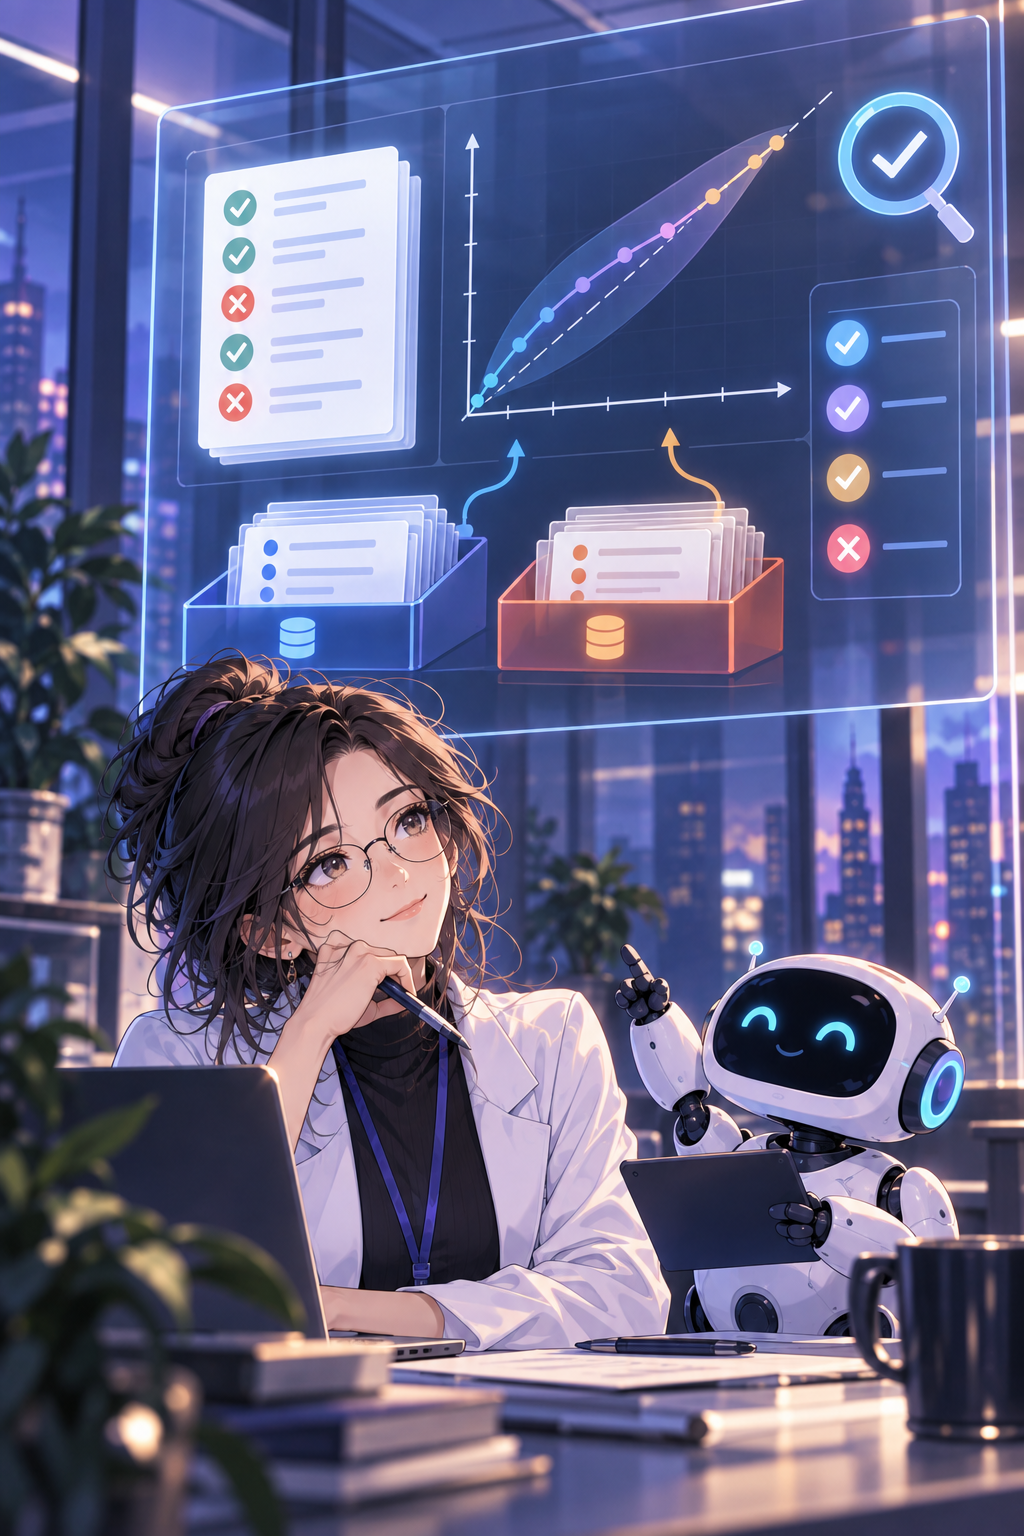
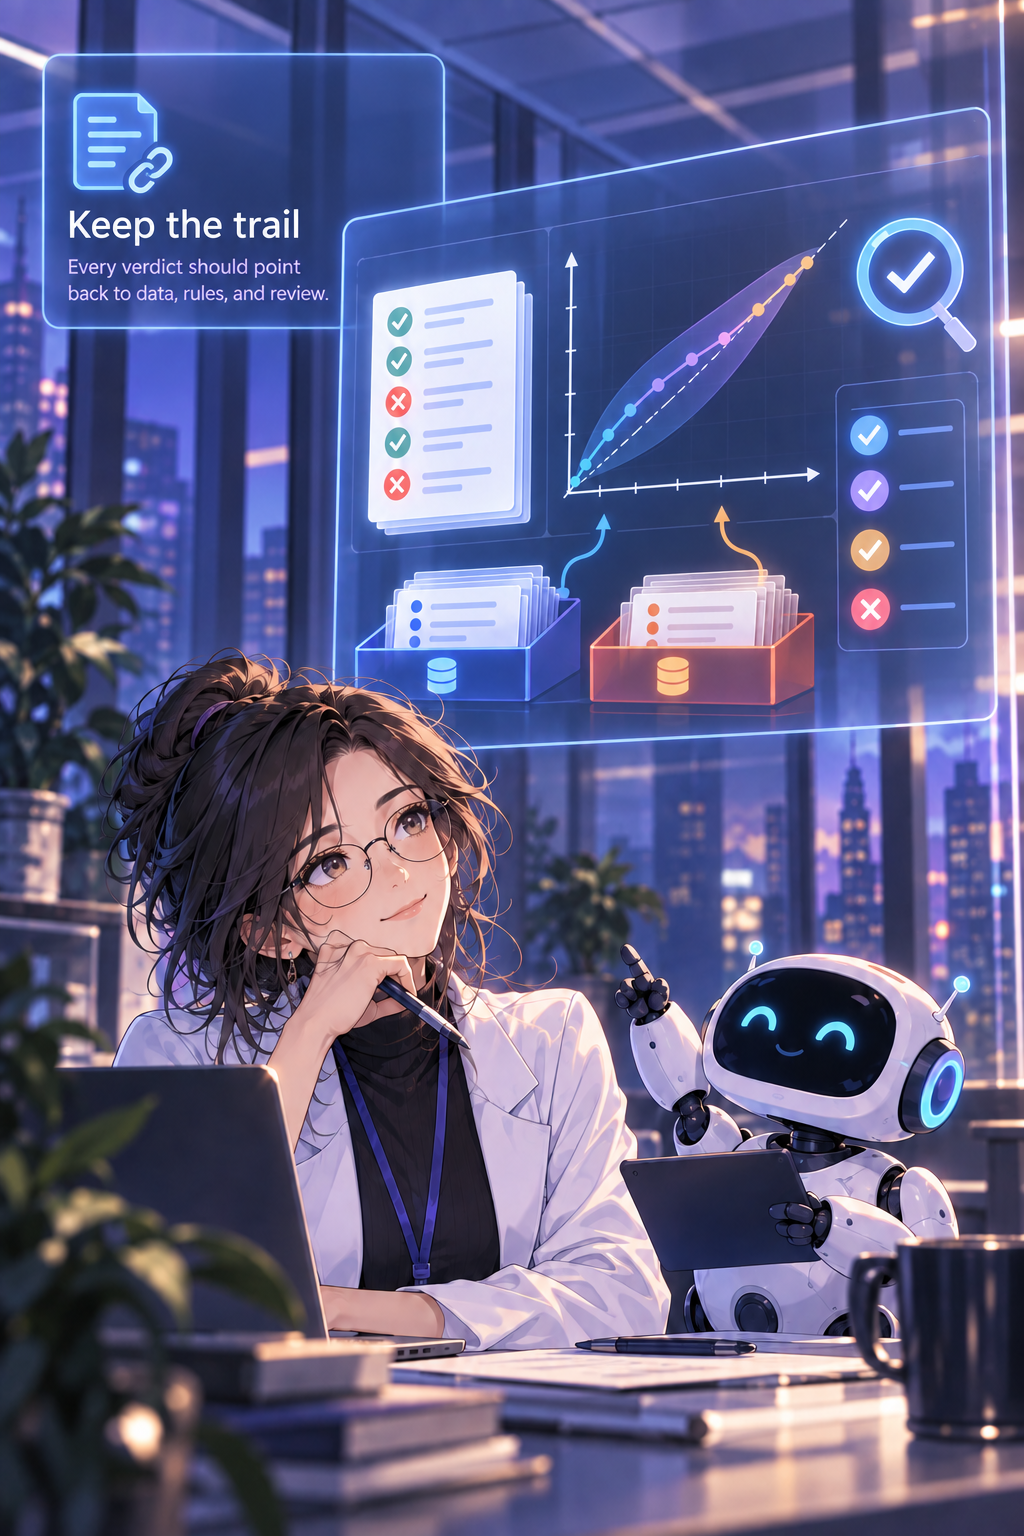
TASK-0014: apply narrative image text contract

diff --git a/docs/content-system-preview.html b/docs/content-system-preview.html
@@ -67,7 +67,7 @@
       <div><h2 id="boundary">The boundary matters</h2><p>Eval Lab does not promote a strong model's opinion to ground truth. A provider failure is recorded as an execution state, not silently scored as a wrong label. <strong>The evidence trail is part of the result.</strong></p></div>
       <figure class="portrait"><img src="../assets/eval-lab-evidence-portrait.png" alt="A researcher reviews evaluation evidence with an AI assistant"></figure>
     </section>
-    <footer>Preview contract: content-generation-modules v0.1.1 · human review remains the final acceptance gate.</footer>
+      <footer>Preview contract: content-generation-modules v0.1.2 · narrative raster assets carry a short title and subtitle · human review remains the final acceptance gate.</footer>
   </main>
 </body>
 </html>

diff --git a/tasks/TASK-0014-content-system-adoption.md b/tasks/TASK-0014-content-system-adoption.md
@@ -1,11 +1,11 @@
 # TASK-0014 — Adopt the reusable content-generation system
 
-<!-- eval-lab:task {"id":"TASK-0014","status":"awaiting_review","goal":"Dogfood the versioned content-generation-modules helper in Eval Lab and produce reviewable README, visual, and responsive HTML artifacts without changing research behavior.","branch":"task/TASK-0014-content-system-adoption","allowed_files":[".gitignore","AGENTS.md","checkpoints/CURRENT.md","tasks/TASK-0014-content-system-adoption.md",".content-system/**","docs/content-system-preview.md","docs/content-system-preview.html"],"helper_repository":"https://github.com/Pukujan/content-generation-modules","helper_version":"0.1.1","helper_commit":"3e89100fed61da19bd3d3f17ad336f189b576c38","next_action":"Open the preview PR and ask the user to review the rendered artifacts before any promotion into README.md."} -->
+<!-- eval-lab:task {"id":"TASK-0014","status":"awaiting_review","goal":"Dogfood the versioned content-generation-modules helper in Eval Lab and produce reviewable README, visual, and responsive HTML artifacts without changing research behavior.","branch":"task/TASK-0014-content-system-adoption","allowed_files":[".gitignore","AGENTS.md","checkpoints/CURRENT.md","tasks/TASK-0014-content-system-adoption.md",".content-system/**","assets/eval-lab-banner.png","assets/eval-lab-problem.png","assets/eval-lab-system-square.png","assets/eval-lab-evidence-portrait.png","docs/content-system-preview.md","docs/content-system-preview.html"],"helper_repository":"https://github.com/Pukujan/content-generation-modules","helper_version":"0.1.2","helper_commit":"cb8c18fa7789e4b651e1f963892bf056b0d3276d","next_action":"Open the preview PR and ask the user to review the rendered artifacts before any promotion into README.md."} -->
 
 - Status: awaiting user review
 - Owner: Codex current implementation session
 - Branch: `task/TASK-0014-content-system-adoption`
-- Helper: `Pukujan/content-generation-modules@v0.1.1` (`3e89100fed61da19bd3d3f17ad336f189b576c38`)
+- Helper: `Pukujan/content-generation-modules@v0.1.2` (`cb8c18fa7789e4b651e1f963892bf056b0d3276d`)
 - Scope: project adapter plus reviewable content/visual/HTML preview only
 
 ## Goal
@@ -19,9 +19,10 @@ Use the reusable content-generation contract in Eval Lab so a fresh agent can pr
 - `tasks/TASK-0014-content-system-adoption.md`;
 - `.content-system/**`;
 - `docs/content-system-preview.md`;
-- `docs/content-system-preview.html`.
+- `docs/content-system-preview.html`;
+- the four named narrative raster assets under `assets/` when the title/subtitle contract requires regeneration.
 
-Do not change research code, experiment artifacts, existing README copy, existing image files, CI, or runtime behavior in this preview task.
+Do not change research code, experiment artifacts, existing README copy, CI, or runtime behavior in this preview task. SVG icons and tiny helper graphics remain unchanged and text-free.
 
 ## Acceptance criteria
 
@@ -35,6 +36,7 @@ Do not change research code, experiment artifacts, existing README copy, existin
 - [x] responsive HTML preview works at wide, tablet, and mobile widths;
 - [x] repository contract, adapter validation, local tests, and preview render checks pass;
 - [x] no target changes are merged without explicit user review.
+- [x] every narrative raster asset carries a short title and subtitle; SVG/helper assets remain text-free.
 
 ## Review evidence to record
 
@@ -137,6 +139,35 @@ Blocked/uncertain:
 Next:
 
 - review the rendered Markdown/HTML/PDF artifacts and decide whether to promote the content system into the canonical README.
+
+### 2026-09-20 — Narrative image text contract update
+
+Completed:
+
+- advanced the adapter pin to `content-generation-modules` v0.1.2 at `cb8c18fa7789e4b651e1f963892bf056b0d3276d`;
+- regenerated the problem, square system, and portrait evidence raster assets with restrained exact title/subtitle copy while preserving the accepted hero and text-free SVG icons;
+- recorded the exact image copy and visual rule in the manifest and visual style contract.
+
+Evidence:
+
+- problem title/subtitle: `Plausible is not proven` / `A confident answer still needs evidence before it becomes a judgment.`;
+- system title/subtitle: `Judge the uncertainty` / `Compare evidence, measure confidence, and route the hard cases.`;
+- evidence title/subtitle: `Keep the trail` / `Every verdict should point back to data, rules, and review.`;
+- generated assets visually inspected for subject visibility, low noise, and readable copy.
+
+Decisions:
+
+- keep one hero only; supporting assets use wide, square, and portrait roles for device coverage;
+- retain SVG icons without embedded words because they are helper visuals rather than narrative illustrations;
+- keep README promotion and merge gated on user review.
+
+Blocked/uncertain:
+
+- none for the adapter or asset update; final human acceptance remains open.
+
+Next:
+
+- rerun adapter, repository, and responsive render validation, push the updated preview branch, and update PR #30 for review.
 
 ## Handoff
 

diff --git a/checkpoints/CURRENT.md b/checkpoints/CURRENT.md
@@ -2,7 +2,7 @@
 
 ## Active content-system preview
 
-TASK-0014 is awaiting user review in [PR #30](https://github.com/Pukujan/Eval-lab/pull/30) on `task/TASK-0014-content-system-adoption`. It pins `Pukujan/content-generation-modules@v0.1.1` at commit `3e89100fed61da19bd3d3f17ad336f189b576c38`. The preview-only adapter and rendered artifacts are complete; the first stale-base CI failure was corrected by merging current `main`, and run `35546113184` passes on Python 3.11 and 3.12. The next atomic action is user review before changing the canonical README.
+TASK-0014 is awaiting user review in [PR #30](https://github.com/Pukujan/Eval-lab/pull/30) on `task/TASK-0014-content-system-adoption`. It pins `Pukujan/content-generation-modules@v0.1.2` at commit `cb8c18fa7789e4b651e1f963892bf056b0d3276d`. The preview-only adapter and rendered artifacts are complete; the first stale-base CI failure was corrected by merging current `main`, and run `35546113184` passes on Python 3.11 and 3.12. The narrative raster assets now all carry a short title and subtitle, while SVG helper icons stay text-free. The next atomic action is user review before changing the canonical README.
 
 ## Program state
 

diff --git a/docs/content-system-preview.md b/docs/content-system-preview.md
@@ -42,4 +42,4 @@ The lab does not promote a strong model's opinion to ground truth. A provider fa
 
 ## Contract used
 
-This preview pins `content-generation-modules@v0.1.1` and its six modules: brand foundation, content context, writing direction, visual direction, image generation, and HTML demo.
+This preview pins `content-generation-modules@v0.1.2` and its six modules: brand foundation, content context, writing direction, visual direction, image generation, and HTML demo. Narrative raster assets carry a short title and subtitle; SVG helper icons stay text-free.
